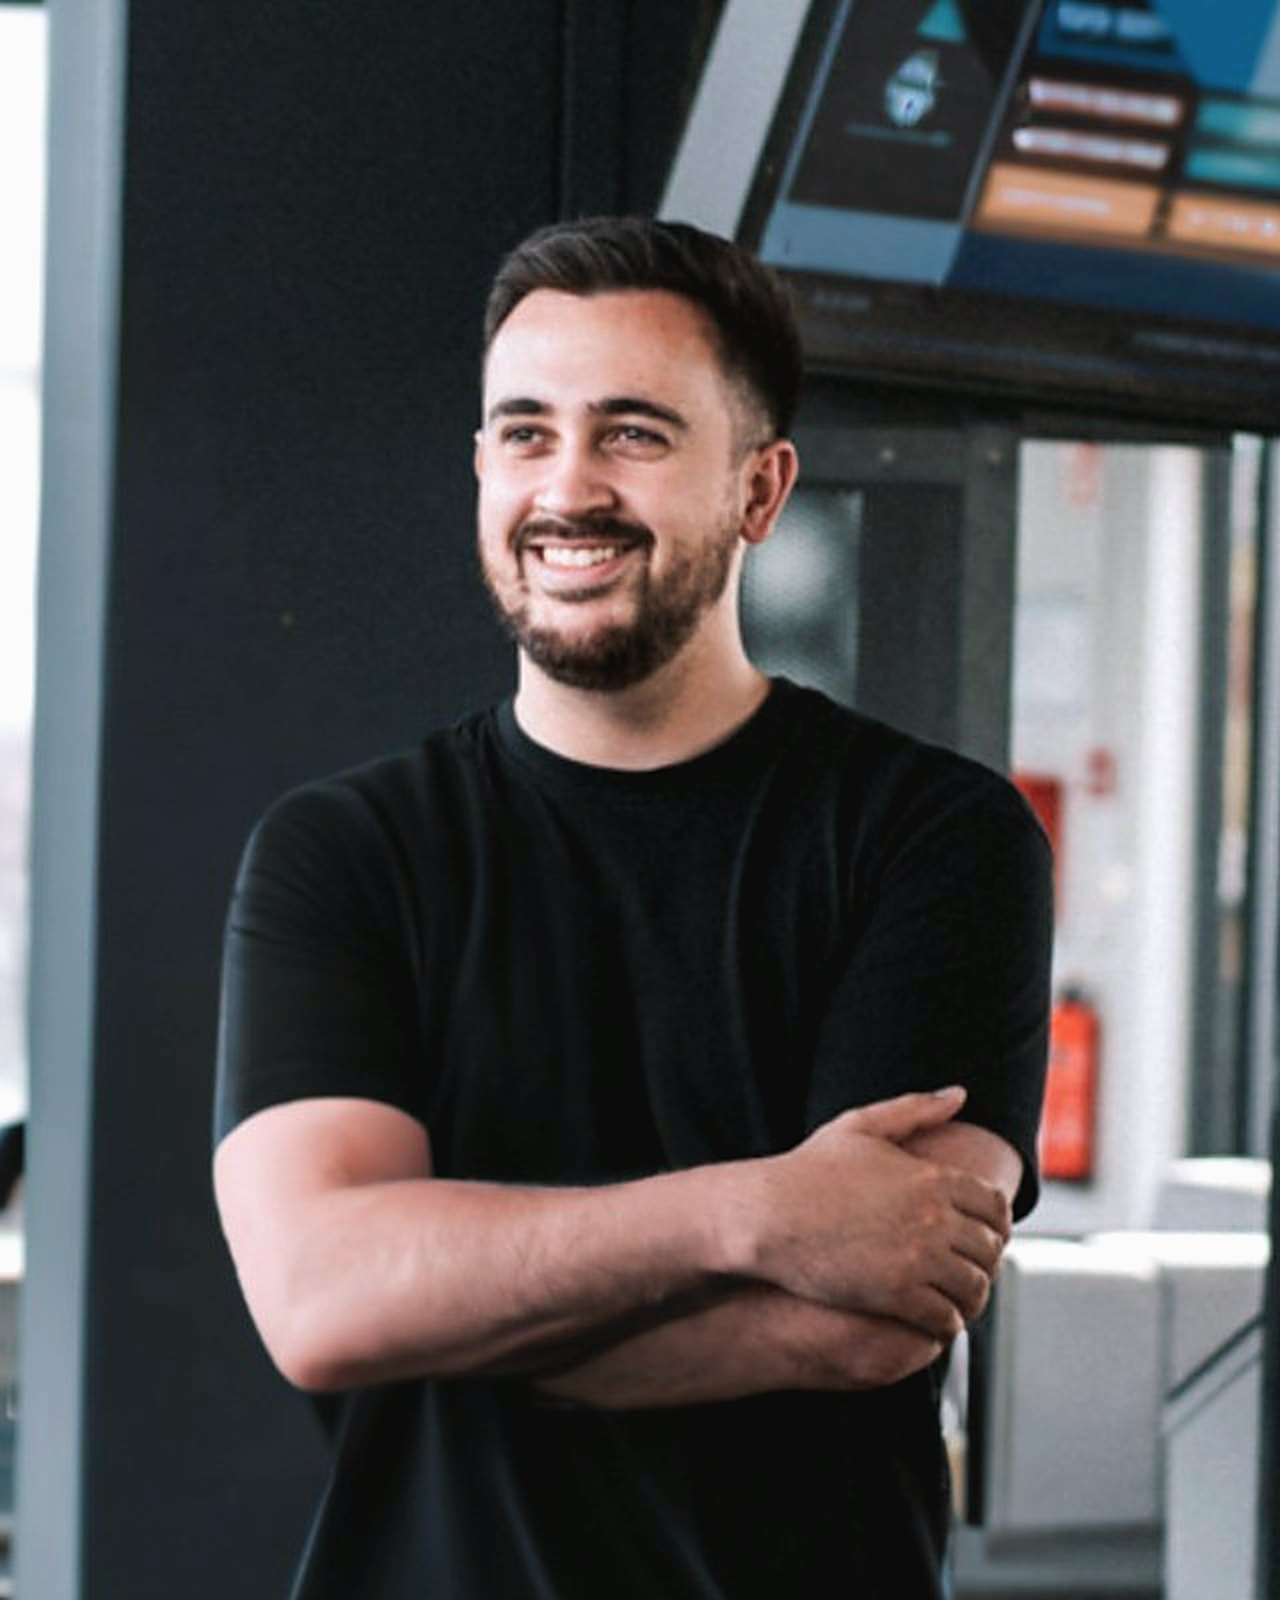
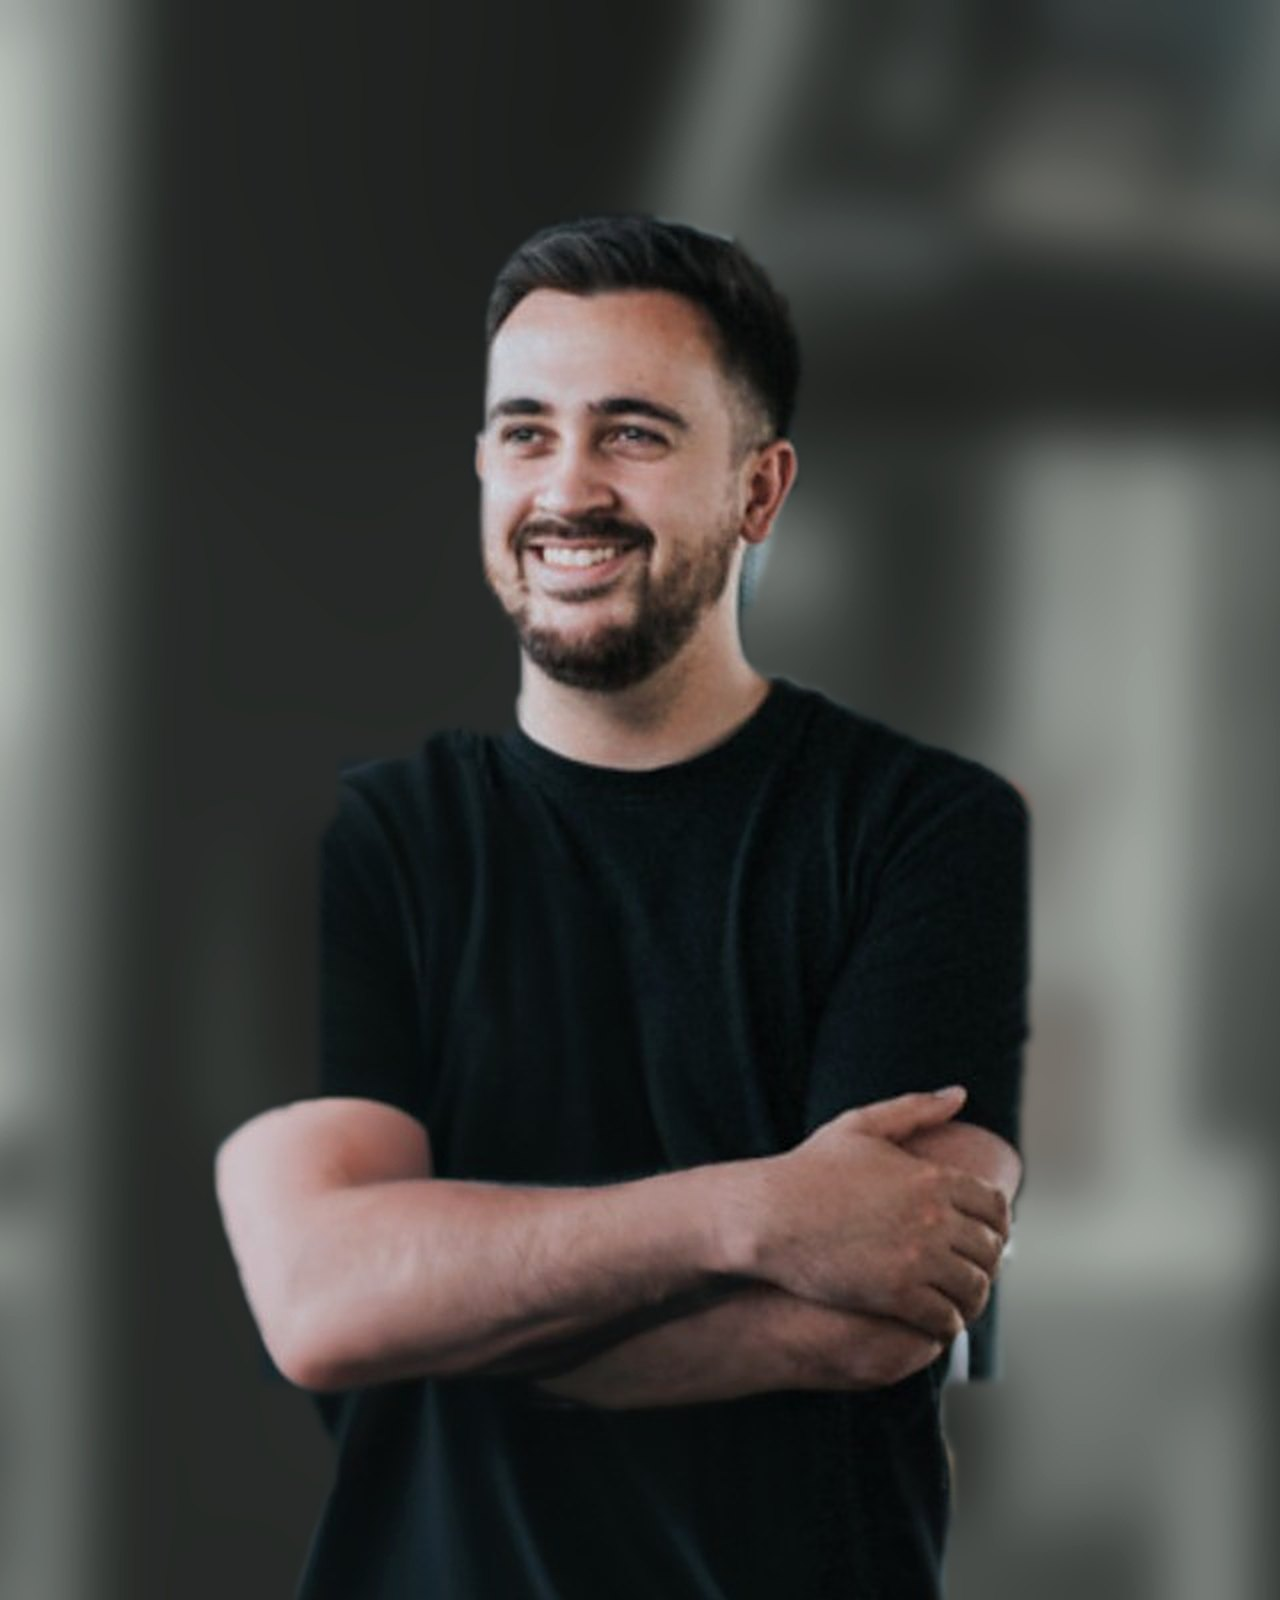
Foto mit ruhigem Hintergrund, Texte ohne Gedankenstriche, Wellen in Bewegung, Unternehmen-Bereich, CardCircle ausführlicher
Claude-Session: https://claude.ai/code/session_01Qi5y4c6H5KttqfKHBGQnix

diff --git a/index.html b/index.html
@@ -5,7 +5,7 @@
   <meta name="viewport" content="width=device-width, initial-scale=1">
   <title>Tobias Maue</title>
   <link rel="icon" href="favicon.svg" type="image/svg+xml">
-  <meta name="description" content="Tobias Maue – Maschinenbauer, Mitgründer und Aufbauer. Aus dem Nichts etwas schaffen, das uns alle ein Stück weiterbringt.">
+  <meta name="description" content="Tobias Maue. Maschinenbauer, Mitgründer und Aufbauer. Aus dem Nichts etwas schaffen, das uns alle ein Stück weiterbringt.">
   <style>
     :root {
       --offwhite: #F3EEE6;
@@ -197,6 +197,53 @@
     .contact .alt { margin-top: 40px; font-size: .95rem; }
     @media (max-width: 600px) { .contact-form .row { grid-template-columns: 1fr; gap: 0; } }
 
+
+    [hidden] { display: none !important; }
+    /* ---------- Unternehmen / Logo-Laufband ---------- */
+    .ventures { background: var(--offwhite-light); }
+    .ventures-intro { margin-top: 14px; color: var(--graphite); max-width: 560px; }
+    .marquee { margin-top: 44px; overflow: hidden; padding: 12px 0;
+      -webkit-mask-image: linear-gradient(90deg, transparent, #000 8%, #000 92%, transparent);
+              mask-image: linear-gradient(90deg, transparent, #000 8%, #000 92%, transparent); }
+    .marquee-track { display: flex; gap: 22px; width: max-content; }
+    .marquee.static .marquee-track { width: auto; justify-content: center; flex-wrap: wrap; padding: 0 24px; }
+    .marquee.moving .marquee-track { animation: marquee var(--marquee-dur, 40s) linear infinite; }
+    .marquee.moving:hover .marquee-track { animation-play-state: paused; }
+    @keyframes marquee { to { transform: translateX(-50%); } }
+    .logo-tile {
+      flex: 0 0 auto; width: 230px; height: 120px;
+      display: grid; place-items: center; padding: 22px;
+      background: var(--offwhite); border: 0; border-radius: var(--radius); cursor: pointer;
+      font: inherit; color: var(--charcoal);
+      box-shadow: 0 10px 30px -22px rgba(62, 67, 65, .6);
+      transition: transform .25s, box-shadow .25s;
+    }
+    .logo-tile:hover, .logo-tile:focus-visible { transform: translateY(-4px); box-shadow: 0 20px 40px -24px rgba(62, 67, 65, .7); outline: none; }
+    .logo-tile img { max-width: 100%; max-height: 64px; object-fit: contain; filter: grayscale(1) opacity(.75); transition: filter .25s; }
+    .logo-tile:hover img { filter: none; }
+    .logo-tile .wordmark { font-family: var(--serif); font-weight: 600; font-size: 1.5rem; letter-spacing: -.01em; color: var(--deep-sage); }
+    .venture-dialog {
+      margin: auto; border: 0; border-radius: var(--radius); padding: 40px 36px 36px; max-width: 520px; width: calc(100% - 32px);
+      background: var(--offwhite); color: var(--charcoal);
+      box-shadow: 0 40px 80px -30px rgba(62, 67, 65, .6);
+    }
+    .venture-dialog::backdrop { background: rgba(62, 67, 65, .55); -webkit-backdrop-filter: blur(4px); backdrop-filter: blur(4px); }
+    .vd-close { position: absolute; top: 14px; right: 18px; background: none; border: 0; font-size: 1.8rem; line-height: 1; color: var(--graphite); cursor: pointer; }
+    .vd-logo { margin-bottom: 18px; }
+    .vd-logo img { max-height: 56px; max-width: 200px; }
+    .vd-logo .wordmark { font-family: var(--serif); font-weight: 600; font-size: 1.6rem; color: var(--deep-sage); }
+    .venture-dialog h3 { font-family: var(--serif); font-size: 1.6rem; }
+    .vd-role { font-weight: 600; color: var(--sage); margin: 2px 0 14px; }
+    .venture-dialog p { color: var(--graphite); }
+    .venture-dialog .btn { margin-top: 24px; background: var(--deep-sage); color: var(--offwhite); }
+    .venture-dialog .btn:hover { background: var(--charcoal); }
+    .timeline .facts { margin: 10px 0 0 18px; color: var(--graphite); }
+    .timeline .facts li { padding: 0; display: list-item; margin-bottom: 4px; }
+    .timeline .facts li::before { content: none; }
+    @media (prefers-reduced-motion: reduce) {
+      .marquee.moving .marquee-track { animation: none; }
+    }
+
     /* Platzhalter sichtbar markieren (vor dem Livegang entfernen) */
     .ph { background: rgba(127, 143, 122, .22); border-bottom: 2px dashed var(--sage); padding: 0 4px; border-radius: 4px; }
     .contact .ph { background: rgba(243, 238, 230, .15); border-color: var(--light-sage); }
@@ -232,6 +279,7 @@
         <ul>
           <li><a href="#about">Über mich</a></li>
           <li><a href="#work">Schwerpunkte</a></li>
+          <li><a href="#ventures">Unternehmen</a></li>
           <li><a href="#stations">Stationen</a></li>
           <li><a href="#contact">Kontakt</a></li>
         </ul>
@@ -244,18 +292,26 @@
       <div class="hero-content">
         <span class="eyebrow">Neues aufbauen · Berlin</span>
         <h1>Tobias Maue<span class="dot">.</span></h1>
-        <p class="lead">Aus dem Nichts etwas schaffen, das uns alle ein Stück weiterbringt – mit Klarheit, Struktur und langfristigem Denken.</p>
+        <p class="lead">Aus dem Nichts etwas schaffen, das uns alle ein Stück weiterbringt. Mit Klarheit, Struktur und langfristigem Denken.</p>
         <div class="cta">
           <a href="#contact" class="btn btn-primary">Kontakt aufnehmen</a>
           <a href="#about" class="btn btn-ghost">Mehr über mich</a>
         </div>
       </div>
     </div>
-    <svg class="waves" viewBox="0 0 1440 340" preserveAspectRatio="none" aria-hidden="true">
-      <path fill="#8E9B8C" d="M0,120 C180,40 360,30 560,90 C760,150 900,60 1080,40 C1240,22 1350,70 1440,90 L1440,340 L0,340 Z"/>
-      <path fill="#B7C0B1" d="M0,170 C160,120 330,110 520,160 C720,212 880,140 1060,110 C1230,82 1350,130 1440,150 L1440,340 L0,340 Z"/>
-      <path fill="#EFEAE1" d="M0,240 C200,190 380,200 580,240 C780,280 940,220 1120,200 C1270,184 1370,215 1440,230 L1440,340 L0,340 Z"/>
-      <path fill="#F3EEE6" d="M0,295 C220,265 420,275 640,300 C860,325 1040,285 1220,280 C1330,277 1400,288 1440,295 L1440,340 L0,340 Z"/>
+    <svg class="waves" id="waves" viewBox="0 0 1440 340" preserveAspectRatio="none" aria-hidden="true">
+      <path fill="#8E9B8C" d="M0,120 C180,40 360,30 560,90 C760,150 900,60 1080,40 C1240,22 1350,70 1440,90 L1440,340 L0,340 Z">
+        <animate attributeName="d" dur="19s" repeatCount="indefinite" calcMode="spline" keyTimes="0;0.33;0.66;1" keySplines="0.45 0 0.55 1;0.45 0 0.55 1;0.45 0 0.55 1" values="M0,120 C180,40 360,30 560,90 C760,150 900,60 1080,40 C1240,22 1350,70 1440,90 L1440,340 L0,340 Z;M0,100 C200,60 380,50 580,105 C770,155 920,80 1100,55 C1250,38 1360,60 1440,80 L1440,340 L0,340 Z;M0,135 C170,55 350,45 545,80 C750,135 890,50 1065,30 C1230,15 1340,80 1440,100 L1440,340 L0,340 Z;M0,120 C180,40 360,30 560,90 C760,150 900,60 1080,40 C1240,22 1350,70 1440,90 L1440,340 L0,340 Z"/>
+      </path>
+      <path fill="#B7C0B1" d="M0,170 C160,120 330,110 520,160 C720,212 880,140 1060,110 C1230,82 1350,130 1440,150 L1440,340 L0,340 Z">
+        <animate attributeName="d" dur="15s" repeatCount="indefinite" calcMode="spline" keyTimes="0;0.33;0.66;1" keySplines="0.45 0 0.55 1;0.45 0 0.55 1;0.45 0 0.55 1" values="M0,170 C160,120 330,110 520,160 C720,212 880,140 1060,110 C1230,82 1350,130 1440,150 L1440,340 L0,340 Z;M0,160 C180,130 350,125 540,170 C730,215 900,155 1080,125 C1240,100 1360,120 1440,140 L1440,340 L0,340 Z;M0,180 C150,110 320,100 505,150 C710,205 865,130 1045,100 C1220,70 1340,140 1440,160 L1440,340 L0,340 Z;M0,170 C160,120 330,110 520,160 C720,212 880,140 1060,110 C1230,82 1350,130 1440,150 L1440,340 L0,340 Z"/>
+      </path>
+      <path fill="#EFEAE1" d="M0,240 C200,190 380,200 580,240 C780,280 940,220 1120,200 C1270,184 1370,215 1440,230 L1440,340 L0,340 Z">
+        <animate attributeName="d" dur="12s" repeatCount="indefinite" calcMode="spline" keyTimes="0;0.33;0.66;1" keySplines="0.45 0 0.55 1;0.45 0 0.55 1;0.45 0 0.55 1" values="M0,240 C200,190 380,200 580,240 C780,280 940,220 1120,200 C1270,184 1370,215 1440,230 L1440,340 L0,340 Z;M0,232 C210,200 400,210 600,248 C790,282 955,232 1135,212 C1280,196 1375,210 1440,222 L1440,340 L0,340 Z;M0,248 C190,182 365,192 565,232 C770,276 925,210 1105,190 C1260,174 1365,222 1440,238 L1440,340 L0,340 Z;M0,240 C200,190 380,200 580,240 C780,280 940,220 1120,200 C1270,184 1370,215 1440,230 L1440,340 L0,340 Z"/>
+      </path>
+      <path fill="#F3EEE6" d="M0,295 C220,265 420,275 640,300 C860,325 1040,285 1220,280 C1330,277 1400,288 1440,295 L1440,340 L0,340 Z">
+        <animate attributeName="d" dur="10s" repeatCount="indefinite" calcMode="spline" keyTimes="0;0.33;0.66;1" keySplines="0.45 0 0.55 1;0.45 0 0.55 1;0.45 0 0.55 1" values="M0,295 C220,265 420,275 640,300 C860,325 1040,285 1220,280 C1330,277 1400,288 1440,295 L1440,340 L0,340 Z;M0,292 C230,270 430,280 650,302 C870,324 1050,290 1230,284 C1335,281 1402,289 1440,293 L1440,340 L0,340 Z;M0,298 C210,262 410,270 630,297 C850,324 1030,282 1210,276 C1325,273 1398,286 1440,297 L1440,340 L0,340 Z;M0,295 C220,265 420,275 640,300 C860,325 1040,285 1220,280 C1330,277 1400,288 1440,295 L1440,340 L0,340 Z"/>
+      </path>
     </svg>
   </header>
 
@@ -272,8 +328,8 @@
             </picture>
           </figure>
           <div class="about-text">
-            <p>Angefangen habe ich als Ingenieur: Meinen Bachelor in Maschinenbau habe ich an der DHBW Mannheim gemacht. Danach hat es mich in junge, schnell wachsende Unternehmen gezogen – dorthin, wo Standorte, Teams und Abläufe erst noch entstehen mussten.</p>
-            <p>Genau das ist bis heute mein Ding: aus einer Idee etwas Echtes machen. Strukturen schaffen, Menschen mitnehmen und Schritt für Schritt etwas aufbauen, das trägt. Mich reizt dabei weniger der große, eingefahrene Konzern als das Neue – Projekte, die etwas bewegen und uns alle ein Stück weiterbringen.</p>
+            <p>Angefangen habe ich als Ingenieur: Meinen Bachelor in Maschinenbau habe ich an der DHBW Mannheim gemacht. Danach hat es mich in junge, schnell wachsende Unternehmen gezogen. Dorthin, wo Standorte, Teams und Abläufe erst noch entstehen mussten.</p>
+            <p>Genau das ist bis heute mein Ding: aus einer Idee etwas Echtes machen. Strukturen schaffen, Menschen mitnehmen und Schritt für Schritt etwas aufbauen, das trägt. Mich reizt dabei weniger der große, eingefahrene Konzern als das Neue: Projekte, die etwas bewegen und uns alle ein Stück weiterbringen.</p>
             <p>Gerade bin ich ein bisschen im Wandel und schaue bewusst, wohin es als Nächstes geht. Parallel habe ich CardCircle mitgegründet, ein Event- und Community-Unternehmen rund um Sammelkartenspiele. Wenn du an etwas Neuem baust und jemanden suchst, der anpackt: Lass uns reden.</p>
           </div>
         </div>
@@ -288,7 +344,7 @@
           <article class="card">
             <div class="num">01</div>
             <h3>Neues aufbauen</h3>
-            <p>Von der Idee zum funktionierenden Ganzen: neue Standorte, Teams und Projekte an den Start bringen – oft dort, wo es noch keine Vorlage gibt.</p>
+            <p>Von der Idee zum funktionierenden Ganzen: neue Standorte, Teams und Projekte an den Start bringen. Oft dort, wo es noch keine Vorlage gibt.</p>
           </article>
           <article class="card">
             <div class="num">02</div>
@@ -298,11 +354,31 @@
           <article class="card">
             <div class="num">03</div>
             <h3>Menschen mitnehmen</h3>
-            <p>Teams aufbauen und entwickeln, Partner gewinnen und auf Augenhöhe zusammenarbeiten – denn nichts Gutes entsteht allein.</p>
+            <p>Teams aufbauen und entwickeln, Partner gewinnen und auf Augenhöhe zusammenarbeiten. Denn nichts Gutes entsteht allein.</p>
           </article>
         </div>
       </div>
     </section>
+
+    <section id="ventures" class="ventures">
+      <div class="wrap">
+        <div class="section-label">Unternehmen</div>
+        <h2>Woran ich mitbaue.</h2>
+        <p class="ventures-intro">Unternehmen und Projekte, bei denen ich gerade dabei bin. Klick auf ein Logo, um mehr zu erfahren.</p>
+      </div>
+      <div class="marquee" id="marquee">
+        <div class="marquee-track" id="marquee-track"></div>
+      </div>
+    </section>
+
+    <dialog class="venture-dialog" id="venture-dialog" aria-labelledby="vd-name">
+      <button class="vd-close" type="button" aria-label="Schließen">×</button>
+      <div class="vd-logo" id="vd-logo"></div>
+      <h3 id="vd-name"></h3>
+      <p class="vd-role" id="vd-role"></p>
+      <p id="vd-text"></p>
+      <a class="btn btn-primary" id="vd-link" target="_blank" rel="noopener">Zur Website</a>
+    </dialog>
 
     <section id="stations">
       <div class="wrap">
@@ -314,11 +390,17 @@
             <div>
               <h3>CardCircle</h3>
               <p class="role">Mitgründer &amp; geschäftsführender Gesellschafter</p>
-              <p>TCG-Event- und Community-Unternehmen. Verantwortlich für Organisation, Partnerschaften und geschäftsnahe Themen.</p>
+              <p>CardCircle bringt Menschen rund um Sammelkartenspiele zusammen: mit Events, Turnieren und einer Community, die über einzelne Spieltage hinaus trägt. Ich habe das Unternehmen mitgegründet und baue es seitdem Schritt für Schritt mit auf.</p>
+              <ul class="facts">
+                <li>Organisation, Verwaltung und alles Geschäftliche im Hintergrund</li>
+                <li>Partnerschaften und Kontakte aufbauen und pflegen</li>
+                <li>Neue Events und Formate entwickeln und umsetzen</li>
+                <li>Strukturen schaffen, auf die sich Team und Community verlassen können</li>
+              </ul>
             </div>
           </li>
           <li>
-            <span class="when">2025 – 2026</span>
+            <span class="when">2025 bis 2026</span>
             <div>
               <h3>Quantune Technologies</h3>
               <p class="role">Office &amp; Operations Manager</p>
@@ -326,15 +408,15 @@
             </div>
           </li>
           <li>
-            <span class="when">2024 – 2025</span>
+            <span class="when">2024 bis 2025</span>
             <div>
               <h3>VARM</h3>
-              <p class="role">Operations Manager – Climate Tech</p>
+              <p class="role">Operations Manager, Climate Tech</p>
               <p>Mitwirkung beim Aufbau neuer Standorte, Koordination von Baustellen, Lager und Kunden.</p>
             </div>
           </li>
           <li>
-            <span class="when">2019 – 2024</span>
+            <span class="when">2019 bis 2024</span>
             <div>
               <h3>TIER Mobility</h3>
               <p class="role">Operations Manager → Regional Operations Manager Rhein-Main</p>
@@ -357,7 +439,7 @@
       <div class="wrap">
         <div class="section-label">Kontakt</div>
         <h2>Lass uns sprechen.</h2>
-        <p>Ob spannende neue Aufgabe, ein Projekt im Aufbau oder einfach ein Austausch – schreib mir eine Nachricht.</p>
+        <p>Ob spannende neue Aufgabe, ein Projekt im Aufbau oder einfach ein Austausch: Schreib mir eine Nachricht.</p>
 
         <form id="contact-form" class="contact-form" action="https://formspree.io/f/maeeokzq" method="POST">
           <div class="row">
@@ -384,6 +466,63 @@
     </div>
   </footer>
 
+  <script>
+    /* Unternehmen: hier neue Einträge ergänzen (logo = Bilddatei in img/, sonst wird der Name als Schriftzug gezeigt) */
+    var VENTURES = [
+      {
+        name: 'CardCircle',
+        logo: '',
+        role: 'Mitgründer & geschäftsführender Gesellschafter, seit 2025',
+        text: 'CardCircle bringt Menschen rund um Sammelkartenspiele zusammen: mit Events, Turnieren und einer Community, die über einzelne Spieltage hinaus trägt. Ich kümmere mich um Organisation, Partnerschaften und die Entwicklung neuer Formate.',
+        url: ''
+      }
+    ];
+
+    (function () {
+      var marquee = document.getElementById('marquee');
+      var track = document.getElementById('marquee-track');
+      var dialog = document.getElementById('venture-dialog');
+      if (!track) return;
+      function mark(v, cls) {
+        return v.logo ? '<img src="' + v.logo + '" alt="' + v.name + '">' : '<span class="wordmark ' + (cls || '') + '">' + v.name + '</span>';
+      }
+      function tiles() {
+        return VENTURES.map(function (v, i) {
+          return '<button type="button" class="logo-tile" data-i="' + i + '" aria-label="Mehr über ' + v.name + '">' + mark(v) + '</button>';
+        }).join('');
+      }
+      var moving = VENTURES.length >= 4;
+      if (moving) {
+        var set = tiles();
+        track.innerHTML = set + set; // doppelt für nahtlose Endlosschleife
+        track.lastElementChild && Array.prototype.slice.call(track.children, VENTURES.length).forEach(function (b) { b.setAttribute('tabindex', '-1'); b.setAttribute('aria-hidden', 'true'); });
+        marquee.style.setProperty('--marquee-dur', (VENTURES.length * 7) + 's');
+        marquee.classList.add('moving');
+      } else {
+        track.innerHTML = tiles();
+        marquee.classList.add('static');
+      }
+      track.addEventListener('click', function (e) {
+        var b = e.target.closest('.logo-tile'); if (!b) return;
+        var v = VENTURES[+b.dataset.i];
+        document.getElementById('vd-logo').innerHTML = v.logo ? mark(v) : '';
+        document.getElementById('vd-name').textContent = v.name;
+        document.getElementById('vd-role').textContent = v.role || '';
+        document.getElementById('vd-text').textContent = v.text || '';
+        var link = document.getElementById('vd-link');
+        if (v.url) { link.href = v.url; link.hidden = false; } else { link.hidden = true; }
+        if (dialog.showModal) dialog.showModal(); else dialog.setAttribute('open', '');
+      });
+      dialog.querySelector('.vd-close').addEventListener('click', function () { dialog.close(); });
+      dialog.addEventListener('click', function (e) { if (e.target === dialog) dialog.close(); });
+    })();
+
+    /* Wellen anhalten, wenn im System „Bewegung reduzieren“ aktiv ist */
+    (function () {
+      var w = document.getElementById('waves');
+      if (w && window.matchMedia && matchMedia('(prefers-reduced-motion: reduce)').matches && w.pauseAnimations) w.pauseAnimations();
+    })();
+  </script>
   <script>
     (function () {
       var bar = document.getElementById('topbar');

diff --git a/datenschutz.html b/datenschutz.html
@@ -3,7 +3,7 @@
 <head>
   <meta charset="utf-8">
   <meta name="viewport" content="width=device-width, initial-scale=1">
-  <title>Datenschutz – Tobias Maue</title>
+  <title>Datenschutz | Tobias Maue</title>
   <meta name="robots" content="noindex, follow">
   <link rel="icon" href="favicon.svg" type="image/svg+xml">
   <style>
